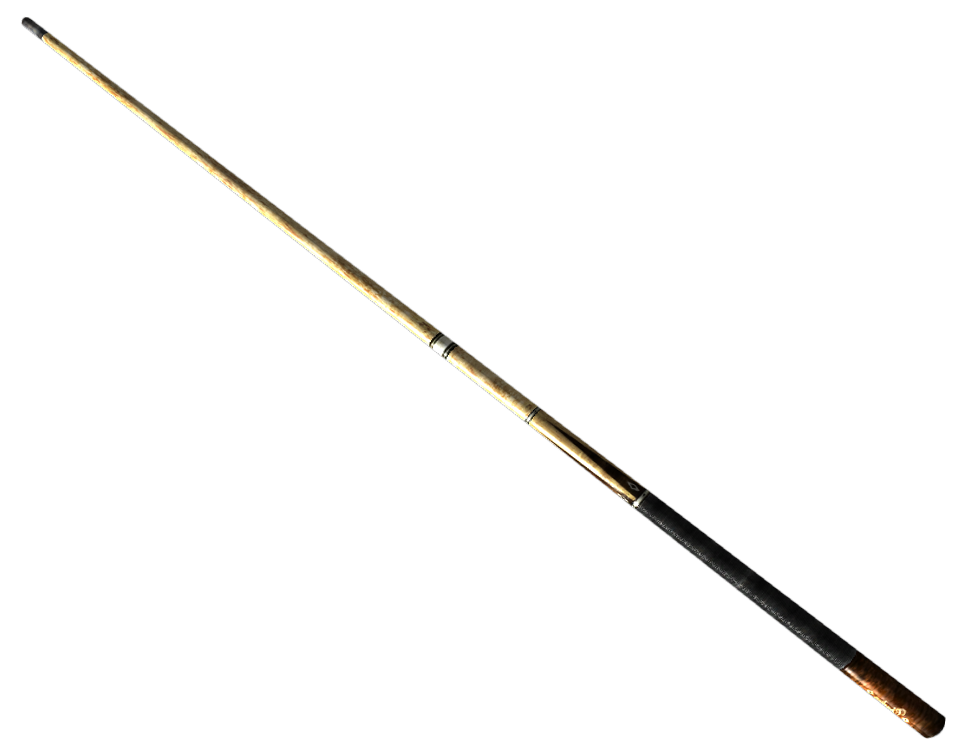
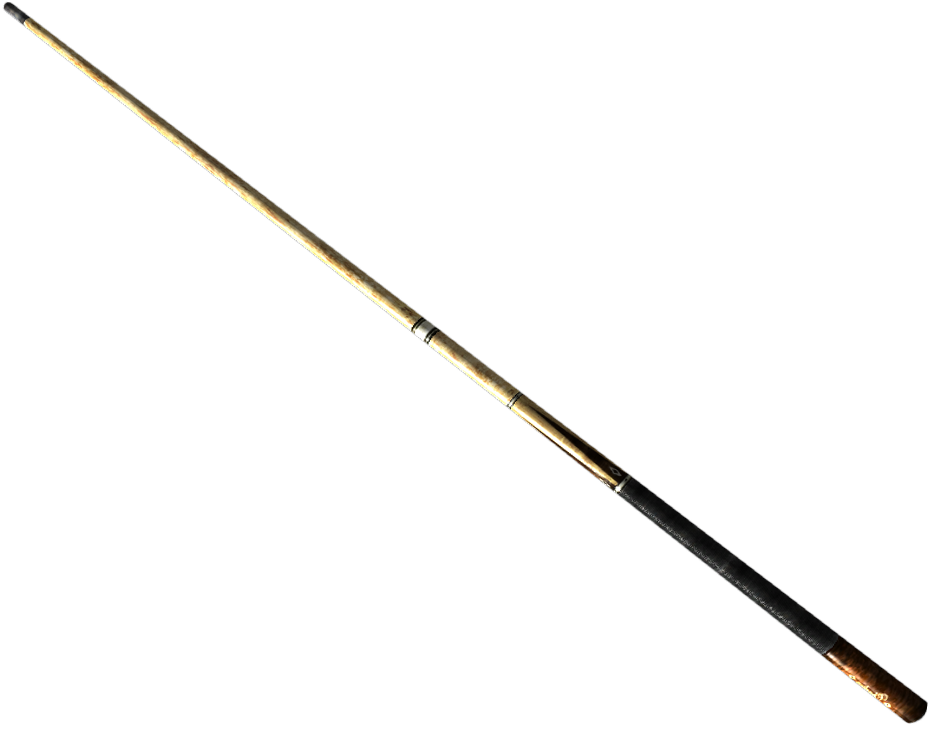
Something.

diff --git a/include/billiard.cpp b/include/billiard.cpp
@@ -55,6 +55,7 @@ sf::Vector2f Billiard::setHit( sf::RenderWindow& window, Table& table )
 {
 	// hit power
 	float power = 0.0;
+	position = table.getBalls()[table.getBalls().size() - 1].getPosition();
 	sf::Vector2f mouse_position = sf::Vector2f( sf::Mouse::getPosition( window ) );
 	float initial_power = getLength( mouse_position - position );			// zero hit power level
 
@@ -63,8 +64,6 @@ sf::Vector2f Billiard::setHit( sf::RenderWindow& window, Table& table )
 	powerBar.setPosition( sf::Vector2f( window.getSize().x * .925, window.getSize().y * .5 ) );
 	sf::RectangleShape powerBar_color;
 	powerBar_color.setFillColor( sf::Color( 255, 0, 0 ) );
-
-	position = table.getBalls()[CUE_BALL].getPosition();
 
 	while ( sf::Mouse::isButtonPressed( sf::Mouse::Left ) )
 	{
@@ -84,7 +83,8 @@ sf::Vector2f Billiard::setHit( sf::RenderWindow& window, Table& table )
         // billiard texture displacement
         mouse_position = sf::Vector2f( sf::Mouse::getPosition( window ) );
         setRotation( mouse_position );
-        sprite.setPosition( position - getNorm( direction ) * ( power * PULL_BACK + table.getBalls()[CUE_BALL].getRadius() ) );
+        sprite.setPosition( position - getNorm( direction )
+       		* ( power * PULL_BACK + table.getBalls()[table.getBalls().size() - 1].getRadius() ) );
 
         // displaying everything
         window.clear( sf::Color( 0, 100, 0, 0 ) );

diff --git a/include/main_Ivan.cpp b/include/main_Ivan.cpp
@@ -21,8 +21,8 @@ int main(int argc, char const *argv[])
 
     // billiard
     sf::Vector2f billiard_direction( 1, 0 );
-    const std::string billiard_file = "../bin/Billiard1.png";
-    Billiard billiard( table.getBalls()[CUE_BALL].getPosition(), billiard_direction,
+    const std::string billiard_file = "../bin/Billiard.png";
+    Billiard billiard( table.getBalls()[table.getBalls().size()].getPosition(), billiard_direction,
         billiard_file );
 
     sf::Vector2f hit_velocity( 0, 0 );
@@ -42,9 +42,9 @@ int main(int argc, char const *argv[])
         // hit setup
         if ( sf::Mouse::isButtonPressed( sf::Mouse::Left ) && ( table.balls_stopped() == 1 ) )
         {
-            billiard.setPosition( table.getBalls()[].getPosition() );
+            billiard.setPosition( table.getBalls()[table.getBalls().size() - 1].getPosition() );
             hit_velocity = billiard.setHit( window, table );
-            table.getBalls()[CUE_BALL].setVelocity( hit_velocity );
+            table.getBalls()[table.getBalls().size() - 1].setVelocity( hit_velocity );
         }
 
         table.update( 1.0f );

diff --git a/include/table.cpp b/include/table.cpp
@@ -1,6 +1,7 @@
 #include "table.hpp"
 #include "ball.hpp"
 #include "vector_operations.hpp"
+#include "billiard.hpp"
 #include <new>
 #include <iostream>
 #include <cmath>
@@ -90,8 +91,9 @@ Table::Table( const sf::Vector2f& position_, const sf::VideoMode& video_mode,
 
 Table::~Table()	{}
 
-void Table::update( float time )
+int Table::update( float time )
 {
+	int result = -1;
     sf::Vector2f rel_distance( 0, 0 );
     sf::Vector2f vel_difference( 0, 0 );
     sf::Vector2f delta_velocity( 0, 0 );
@@ -115,8 +117,13 @@ void Table::update( float time )
 
         got_in_pocket = balls[i].update( 1.0f, *this );
         if ( got_in_pocket == 0 )
+        {
+        	result = balls[i].style;
             balls.erase( balls.begin() + i );
-    }	
+        }
+    }
+
+    return result;
 }
 
 int Table::balls_stopped() const
@@ -129,6 +136,11 @@ int Table::balls_stopped() const
 
 	return stop_flag;
 }
+
+/*void Table::setHit( sf::RenderWindow& window, Billiard& billiard )
+{
+	if ( balls[balls.get])
+}*/
 
 sf::Vector2f Table::getPosition() const
 {

diff --git a/include/ball.hpp b/include/ball.hpp
@@ -21,6 +21,11 @@ class Ball
 	sf::Sprite sprite;
 	int style;
 
+	// moves the ball as if 'time' time units went by
+	int update( float time, const Table& table );
+
+	void draw( sf::RenderWindow &window ); 				// draws the ball
+
 	friend class Table;
 
 public:
@@ -29,13 +34,10 @@ public:
 		const std::string& name, int style_ );
 	~Ball();
 
-	int update( float time, const Table& table );		// moves the ball as if 'time' time units went by
 	sf::Vector2f getPosition() const;					// returns the position
 	sf::Vector2f getVelocity() const;					// returns the velocity
 	int getRadius() const;								// returns the radius
+	int getStyle() const;								// returns the style
 
 	void setVelocity( const sf::Vector2f& velocity_ ); 	// sets the velocity
-
-	// graphical functions go here
-	void draw( sf::RenderWindow &window ); 				// draws the ball
 };

diff --git a/include/table.hpp b/include/table.hpp
@@ -34,8 +34,9 @@ public:
 		const std::string& table_file, const std::string& ball_file );
 	~Table();
 
-	void update( float time ); 			// calculates the positions and the velocities of the balls
-	int balls_stopped() const;  // stop_flag == 1 when all balls' velocities are null
+	int update( float time ); 			// calculates the positions and the velocities of the balls
+	int balls_stopped() const;  		// stop_flag == 1 when all balls' velocities are null
+	//void setHit( sf::RenderWindow& window, Billiard& billiard );
 
 	sf::Vector2f getPosition() const;			// returns the position
 	unsigned int getWidth() const;				// returns width

diff --git a/include/billiard.hpp b/include/billiard.hpp
@@ -1,12 +1,12 @@
 #pragma once
 #include "ball.hpp"
+#include "table.hpp"
 #include <SFML/Graphics.hpp>
 
 #define BILLIARD_SCALE .5f
 #define PI 3.1415926f
 #define MAX_POWER 7
 #define PULL_BACK 10.0f
-#define CUE_BALL 15
 
 class Billiard
 {
@@ -15,6 +15,8 @@ class Billiard
 
 	sf::Texture texture;
 	sf::Sprite sprite;
+
+	void draw( sf::RenderWindow& window, float ball_radius );
 
 public:
 	Billiard();
@@ -29,6 +31,4 @@ public:
 	void setRotation( const sf::Vector2f& mousePosition_ );
 
 	sf::Vector2f setHit( sf::RenderWindow& window, Table& table );
-
-	void draw( sf::RenderWindow& window, float ball_radius );
 };

diff --git a/include/ball.cpp b/include/ball.cpp
@@ -172,6 +172,11 @@ int Ball::getRadius() const
 	return radius;
 }
 
+int Ball::getStyle() const
+{
+	return style;
+}
+
 void Ball::setVelocity( const sf::Vector2f& velocity_ )
 {
 	velocity = velocity_;

diff --git a/README.md b/README.md
@@ -1,15 +1,15 @@
 # 2DeadPool
 A simple version of the American "Eight-ball" game
-## Getting Started
+### Getting Started
 Donwload the libraries listed in the "Built with" section
-On Windows:
-Download Visual Studio and ...
-On Linux:
+On Windows:  
+Download Visual Studio and ...  
+On Linux:  
 * make sure you have g++ and make installed( use sudo apt-get install g++/make )
 * navigate to the 2DeadPool/include folder and run the makefile by typing "make" in the bash
 * run the compiled file called ""
-## Built With
+### Built With
 [SFML](https://www.sfml-dev.org/download.php): 2D graphics
-## Authors
-**Ivan Korostelev** - physics and apperance
+### Authors
+**Ivan Korostelev** - physics and apperance  
 **Mikhail Tsaritsyn** - menu and logic
